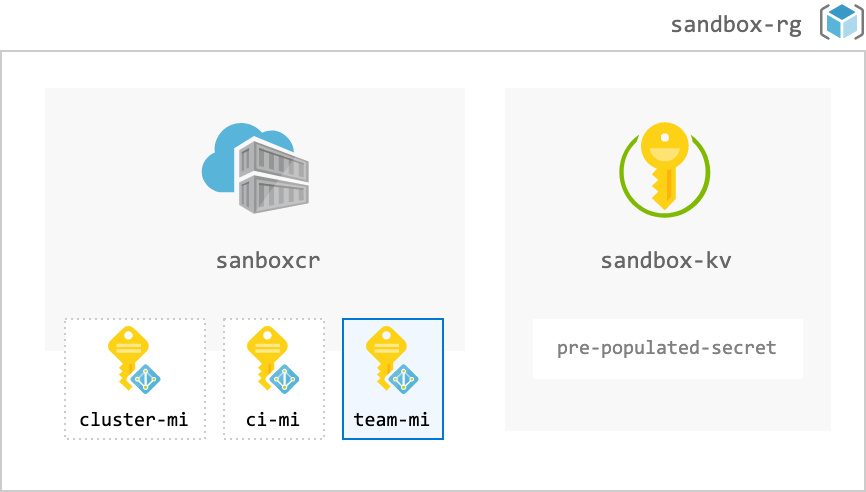
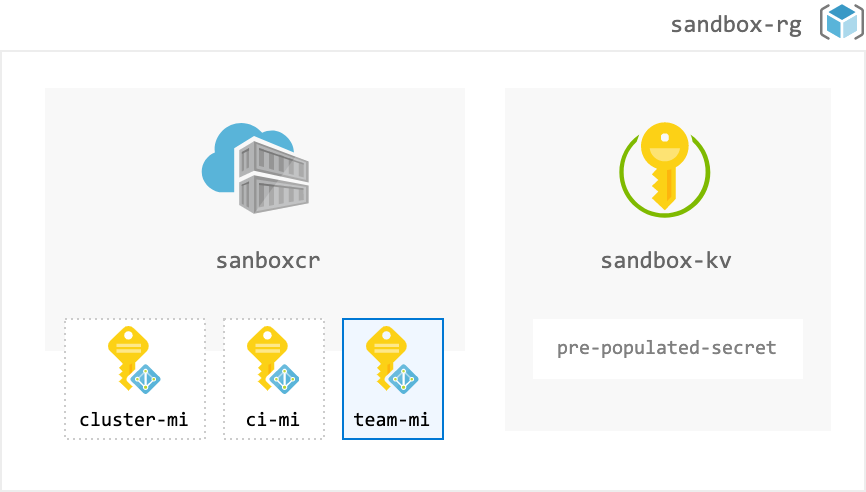
docs(readme): larger diagram, lighter border

Changed region(s): [[0.0, 0.0915, 1.0, 1.0]]

diff --git a/README.md b/README.md
@@ -4,7 +4,7 @@
 
 A central cloud operations team deploys a sandbox for a developer team. 
 
-<img src="./example-diagram.png" width="500" alt="Example Sandbox">
+<img src="./example-diagram.png" width="540" alt="Example Sandbox">
 
 _Note: Managed Identities are illustrated for example scenario considerations described below._
 
